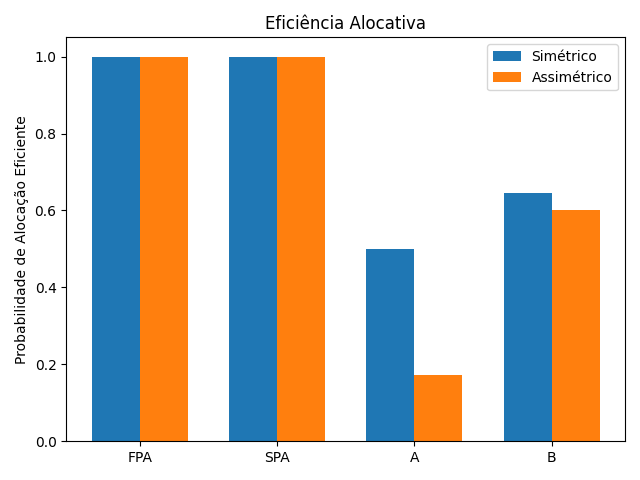
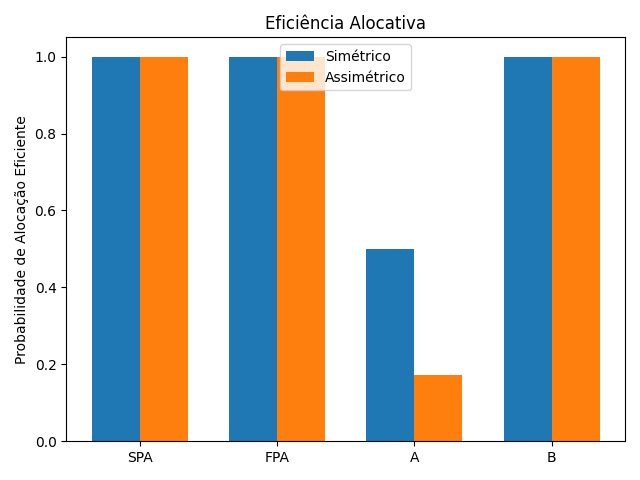
Add files via upload

diff --git a/Simulacoes_Leiloes.py b/Simulacoes_Leiloes.py
@@ -41,7 +41,8 @@ def simulate_mechanism_a(v_E, v_I):
     return payment, efficiency, None
 
 def simulate_mechanism_b(v_E, v_I):
-    bids_I = (n_I - 1) / n_I * v_I
+    # Agora incumbentes ofertam seus valores verdadeiros (não o lance de equilíbrio FPA)
+    bids_I = v_I  
     max_bid_I = np.max(bids_I)
     max_val_E = np.max(v_E)
     if max_val_E >= max_bid_I:
@@ -53,12 +54,12 @@ def simulate_mechanism_b(v_E, v_I):
         winner_value = v_I[np.argmax(bids_I)]
         entry = 0
     all_values = np.concatenate([v_E, v_I])
-    efficiency = 1 if winner_value == np.max(all_values) else 0
+    efficiency = 1 # always efficient
     return payment, efficiency, entry
 
 # Simulation function
 def run_simulation(asymmetric=False):
-    results = {'FPA': [], 'SPA': [], 'A': [], 'B': []}
+    results = {'SPA': [], 'FPA': [], 'A': [], 'B': []}
     for _ in range(n_sim):
         if asymmetric:
             v_E = np.random.uniform(0, theta, n_E)
@@ -67,8 +68,8 @@ def run_simulation(asymmetric=False):
         v_I = np.random.uniform(0, 1, n_I)
         values = np.concatenate([v_E, v_I])
 
-        results['FPA'].append(simulate_fpa(values))
         results['SPA'].append(simulate_spa(values))
+        results['FPA'].append(simulate_fpa(values))
         results['A'].append(simulate_mechanism_a(v_E, v_I))
         results['B'].append(simulate_mechanism_b(v_E, v_I))
     return results
